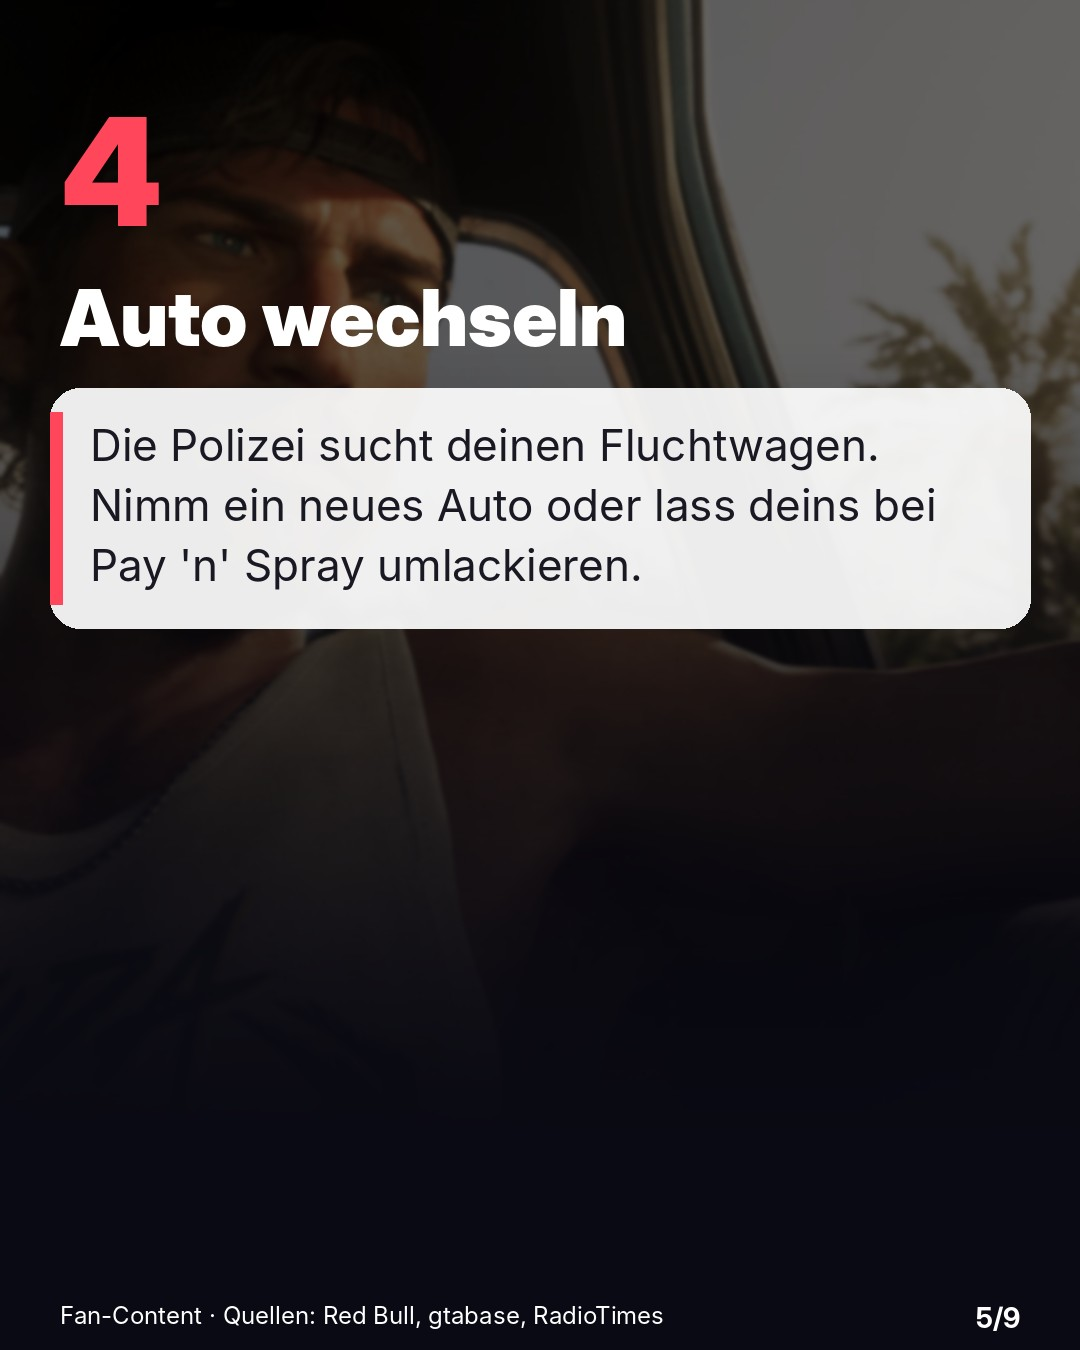
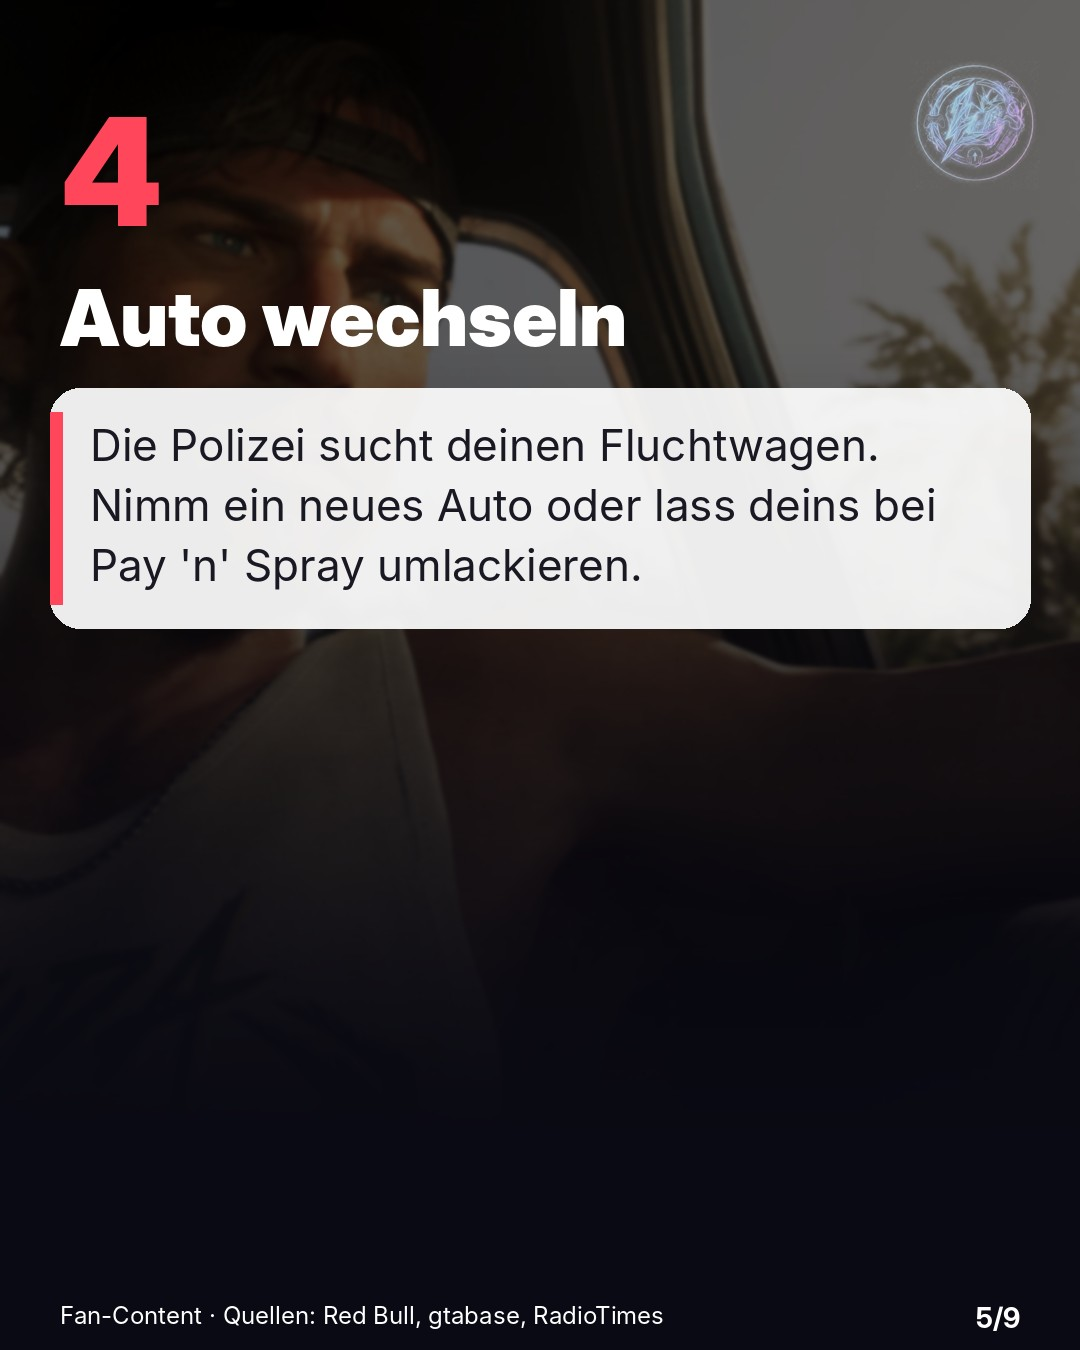
Wasserzeichen eingebaut, Guides neu gerendert
Claude-Session: https://claude.ai/code/session_01FQfdCRFb5nmKoPtffGFx3i

Changed region(s): [[0.8556, 0.0311, 0.9472, 0.1244]]

diff --git a/tools/make_carousel.py b/tools/make_carousel.py
@@ -57,7 +57,7 @@ for i,s in enumerate(cfg["slides"]):
         for ln in lines: d.text((90,y),ln,font=REG(44),fill=(25,25,35)); y+=60
     d.text((60,H-50),cfg.get("footer","Fan-Content · nicht mit Rockstar Games verbunden"),font=REG(24),fill=(255,255,255,170))
     d.text((W-60,H-50),f"{i+1}/{n}",font=BOLD(28),fill=(255,255,255,200),anchor="ra")
-    lp=os.path.join(os.path.dirname(os.path.abspath(__file__)),"..","assets","brand","logo_round.png")
+    lp=os.path.join(os.path.dirname(os.path.abspath(__file__)),"..","assets","brand","watermark.png")
     if os.path.exists(lp):
-        lg=Image.open(lp).resize((110,110)); im.paste(lg,(W-60-110,60),lg)
+        lg=Image.open(lp).resize((130,130)); lg.putalpha(lg.getchannel("A").point(lambda p:int(p*0.85))); im.paste(lg,(W-60-110,60),lg)
     im.save(f"{out}/{i+1}.jpg",quality=90)

diff --git a/tools/make_radio.py b/tools/make_radio.py
@@ -5,8 +5,8 @@ W,H,FPS=1080,1920,30
 F="/usr/share/fonts/opentype/inter/"
 BLK=lambda s:ImageFont.truetype(F+"InterDisplay-Black.otf",s); BOLD=lambda s:ImageFont.truetype(F+"InterDisplay-Bold.otf",s); REG=lambda s:ImageFont.truetype(F+"Inter-Regular.otf",s)
 acc=tuple(cfg["color"])
-_lp=os.path.join(os.path.dirname(os.path.abspath(__file__)),"..","assets","brand","logo_round.png")
-LOGO=Image.open(_lp).resize((110,110)) if os.path.exists(_lp) else None
+_lp=os.path.join(os.path.dirname(os.path.abspath(__file__)),"..","assets","brand","watermark.png")
+LOGO=Image.open(_lp).resize((130,130)) if os.path.exists(_lp) else None
 src=Image.open(cfg["bg"]).convert("RGB")
 # crop to 9:16 around focus x
 sw,sh=src.size; cw=int(sh*9/16); cx=int(sw*cfg.get("focus",0.5)); x0=max(0,min(sw-cw,cx-cw//2))

diff --git a/PLAYBOOK.md b/PLAYBOOK.md
@@ -66,6 +66,6 @@ Jedes Thema vorher mit Firecrawl recherchieren (mind. 2 seriöse Quellen: IGN-Wi
 Keine Story-Spoiler (Ende, Wendungen, wer stirbt).
 
 ## Marke
-- Logo: assets/brand/logo_round.png (rund, freigestellt). Die Werkzeuge setzen es automatisch klein in jede Grafik/jedes Video.
+- Logo: assets/brand/logo_original.jpg, rund: logo_round.png. Wasserzeichen: assets/brand/watermark.png (freigestellt) – die Werkzeuge setzen es automatisch klein oben rechts (Karussell) bzw. unten rechts (Reel).
 - Farben aus dem Logo: Neon-Blau #3aa0ff, Violett #9b5cff auf Schwarz.
 - TikTok (vidIQ, Konto _000ejh3OGTgMfOV8PtQByN_q5R4SnQb95t0): Einstellungen vom Nutzer festgelegt – öffentlich, Kommentare an, Musikbestätigung akzeptiert. Videos wie bei YouTube als Entwurf anlegen (gleiches Ja nötig).
